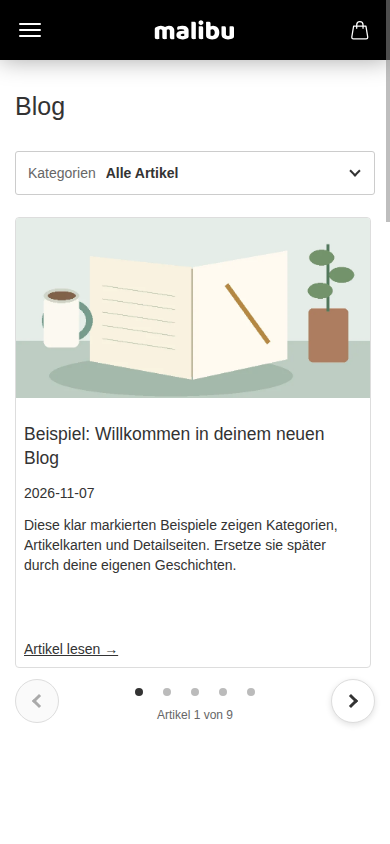
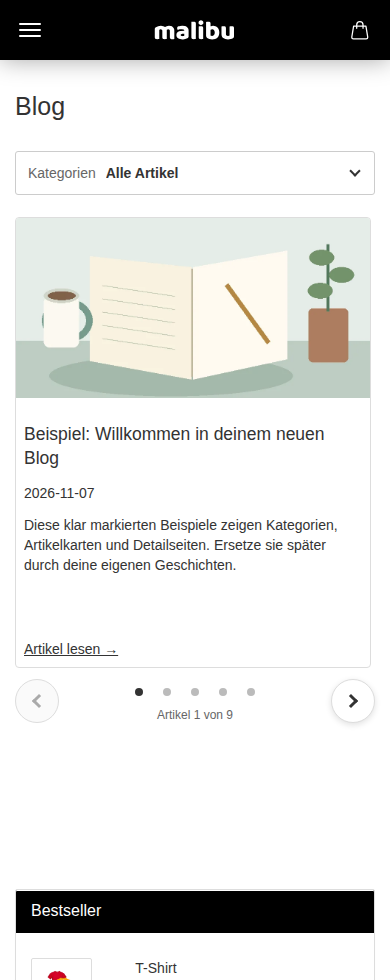
Dokumentation: Blogmodul mit zehn Ansichten vorstellen

diff --git a/docs/BILDERRUNDGANG.md b/docs/BILDERRUNDGANG.md
@@ -1,0 +1,102 @@
+# c1zz Blog in Bildern
+
+Zehn echte Ansichten zeigen den Weg vom Einstieg über das Schreiben und Gestalten bis zum öffentlichen Blog. Klicke auf ein Bild, um die Bedienelemente in Originalgröße zu lesen.
+
+**Aufgenommen am 09.11.2026:** Modul 0.40.2 im lokalen Gambio 26.11.0 mit Malibu und optionalen Beispielinhalten. Die Detailaufnahmen von Schreibeditor, Freigabe und Darstellung zeigen gezielte Ausschnitte. Das Erscheinungsbild hängt vom Shoptheme und den Einstellungen ab. Die Bilder ergänzen den [dokumentierten Teststand](KOMPATIBILITAET.md).
+
+[Zur Projektübersicht](../README.md) · [Zur Installation](INSTALLATION.md)
+
+| Ansicht | Das siehst du |
+|---|---|
+| [1. Einstieg](#ansicht-1) | Geführter Einstieg mit vier Schritten und Verwaltung der Beispielartikel |
+| [2. Artikelverwaltung](#ansicht-2) | Artikelübersicht mit Suche, Kategorien, Veröffentlichungsstatus und Aktionen |
+| [3. Artikeldaten und SEO](#ansicht-3) | Artikelformular mit Titel, Kategorie, Kurzbeschreibung und Suchmaschinenfeldern |
+| [4. Inhalte schreiben](#ansicht-4) | Nativer Schreibeditor mit Beispieltext, Formatierungsleiste und Entwurfsaktionen |
+| [5. Kategorien verwalten](#ansicht-5) | Kategorieformular mit SEO-Feldern und Liste bestehender Kategorien |
+| [6. Freigabe, Termine und Versionen](#ansicht-6) | Freigabe eines privaten Entwurfs, Terminplanung, Aufgabenhinweis und gespeicherte Version |
+| [7. Darstellung mit Vorschau](#ansicht-7) | Grafischer Editor mit Grid-Vorschau und Layoutoptionen für Desktop |
+| [8. Öffentlicher Blog auf Desktop](#ansicht-8) | Öffentliche Blogliste im vollständigen Malibu-Shoplayout |
+| [9. Öffentliche Artikelseite](#ansicht-9) | Öffentlicher Ratgeber mit Titelbild, gegliedertem Text und Shopumgebung |
+| [10. Öffentlicher Blog auf Mobilgeräten](#ansicht-10) | Mobile Blogansicht mit Kategorieauswahl und Artikelslider |
+
+<a id="ansicht-1"></a>
+
+## 1. Einstieg
+
+Nach der Installation führt **Einstieg** durch Beispielblog, Gestaltung, eigene Inhalte und Livegang. In diesem Testshop wurden die optionalen Beispiele bereits angelegt. Eine Neuinstallation startet leer.
+
+[![Geführter Einstieg mit vier Schritten und Verwaltung der Beispielartikel](images/einstieg.png)](images/einstieg.png)
+
+<a id="ansicht-2"></a>
+
+## 2. Artikelverwaltung
+
+Die Übersicht verbindet Suche, Kategoriefilter und Status mit den Aktionen **Bearbeiten** und **Freigabe & Termine**. Zu sehen sind neun veröffentlichte Beispiele und ein privater Entwurf.
+
+[![Artikelübersicht mit Suche, Kategorien, Veröffentlichungsstatus und Aktionen](images/artikelverwaltung.png)](images/artikelverwaltung.png)
+
+<a id="ansicht-3"></a>
+
+## 3. Artikeldaten und SEO
+
+Im oberen Teil des Artikelformulars pflegst du Titel, Datum, Kategorie, Kurzbeschreibung, Schlagwörter und URL-Kürzel. SEO-Titel und Meta-Description stehen im selben Formular. Speichern aktualisiert den Entwurf; die Veröffentlichung ist ein eigener Schritt.
+
+[![Artikelformular mit Titel, Kategorie, Kurzbeschreibung und Suchmaschinenfeldern](images/artikel-angaben.png)](images/artikel-angaben.png)
+
+<a id="ansicht-4"></a>
+
+## 4. Inhalte schreiben
+
+Dieser Ausschnitt zeigt den Inhaltsbereich weiter unten im selben Formular: nativer Gambio-Editor mit Formatierung und HTML-Ansicht sowie die Aktionen für Entwurf, Vorschau und Veröffentlichung. Der Beispieltext enthält Zwischenüberschriften, eine Liste und ein Zitat.
+
+[![Nativer Schreibeditor mit Beispieltext, Formatierungsleiste und Entwurfsaktionen](images/editor.png)](images/editor.png)
+
+<a id="ansicht-5"></a>
+
+## 5. Kategorien verwalten
+
+Eigene Kategorien lassen sich unabhängig von Artikeln anlegen. Name, URL-Kürzel und Suchmaschinenangaben gehören zur Kategorie. Unter dem Formular stehen die bereits vorhandenen Beispielkategorien.
+
+[![Kategorieformular mit SEO-Feldern und Liste bestehender Kategorien](images/kategorien.png)](images/kategorien.png)
+
+<a id="ansicht-6"></a>
+
+## 6. Freigabe, Termine und Versionen
+
+Der Ausschnitt zeigt die Freigabe eines gespeicherten Entwurfs, die Terminplanung und die vorhandene Version. Beide Freigaben verlangen eine ausdrückliche Bestätigung. Der gelbe Hinweis ist im lokalen Testshop sichtbar, weil kein regelmäßiger Aufgabenaufruf bestätigt ist; geplante Veröffentlichungen benötigen diesen Aufruf. Für die Aufnahme wurde nichts veröffentlicht oder eingeplant.
+
+[![Freigabe eines privaten Entwurfs, Terminplanung, Aufgabenhinweis und gespeicherte Version](images/freigabe-termine.png)](images/freigabe-termine.png)
+
+<a id="ansicht-7"></a>
+
+## 7. Darstellung mit Vorschau
+
+Im grafischen Editor wählst du Geräteansicht und Bereich, zum Beispiel Layout, Karte, Bild oder Text. Hier zeigt der Ausschnitt eine **ungespeicherte Grid-Vorschau** mit zwei Spalten und den passenden Layoutoptionen. Die gespeicherten Einstellungen wurden für die Aufnahme nicht verändert.
+
+[![Grafischer Editor mit Grid-Vorschau und Layoutoptionen für Desktop](images/darstellung.png)](images/darstellung.png)
+
+<a id="ansicht-8"></a>
+
+## 8. Öffentlicher Blog auf Desktop
+
+Die gespeicherte Desktopansicht verwendet eine Liste. Shopkopf und Seitenleiste zeigen die Einbindung in Malibu; innerhalb des Blogs führen Kategorien und Seitennavigation durch die Artikel. Die Aufnahme erfolgt als Gast.
+
+[![Öffentliche Blogliste im vollständigen Malibu-Shoplayout](images/blog-desktop.png)](images/blog-desktop.png)
+
+<a id="ansicht-9"></a>
+
+## 9. Öffentliche Artikelseite
+
+Der Ratgeber zeigt Titel, Kategorie, Datum, Kurzbeschreibung und Titelbild sowie den formatierten Artikeltext. Shopkopf und Seitenleiste bleiben Bestandteil der Shopdarstellung.
+
+[![Öffentlicher Ratgeber mit Titelbild, gegliedertem Text und Shopumgebung](images/artikel.png)](images/artikel.png)
+
+<a id="ansicht-10"></a>
+
+## 10. Öffentlicher Blog auf Mobilgeräten
+
+Bei 390 Pixeln Breite verwendet dieser Beispielshop einen Slider mit Pfeilen, Punkten und Artikelzähler. Die Kategorien sind über eine kompakte Auswahl erreichbar. Desktop und Mobil können unterschiedliche Darstellungen verwenden.
+
+<a href="images/blog-mobil.png"><img src="images/blog-mobil.png" alt="Mobile Blogansicht mit Kategorieauswahl und Artikelslider" width="390"></a>
+
+[Zur Projektübersicht](../README.md) · [Installation](INSTALLATION.md)

diff --git a/README.md b/README.md
@@ -6,11 +6,13 @@
 
 Artikel schreiben, Kategorien pflegen und die Darstellung direkt im Shop gestalten: **c1zz Blog** ist ein eigenständig installierbares Blogmodul für Gambio. Du brauchst keinen vorbereiteten Blog und keine SSH-Nacharbeiten.
 
-**[Installer herunterladen](https://github.com/c1zz/gambio-blog/releases/download/v0.40.2-rc.1/c1zz-blog-install-0.40.2.php)** · **[Release & Prüfsummen](https://github.com/c1zz/gambio-blog/releases/tag/v0.40.2-rc.1)** · **[Installation](docs/INSTALLATION.md)** · **[Echtheit prüfen](SECURITY.md)**
+**[Bilderrundgang mit 10 Ansichten](docs/BILDERRUNDGANG.md)** · **[Installer herunterladen](https://github.com/c1zz/gambio-blog/releases/download/v0.40.2-rc.1/c1zz-blog-install-0.40.2.php)** · **[Release & Prüfsummen](https://github.com/c1zz/gambio-blog/releases/tag/v0.40.2-rc.1)** · **[Installation](docs/INSTALLATION.md)** · **[Echtheit prüfen](SECURITY.md)**
 
 > Dies ist ein **Release Candidate**. Bitte zuerst in einem Testshop prüfen und vor dem Einsatz den Shop sichern. Der interne Modulstand und der Dateiname lauten `0.40.2`; `rc.1` kennzeichnet diese Veröffentlichung.
 
-![Blog mit Beispielartikeln im lokalen Testshop](docs/images/blog-desktop.png)
+**So sehen Besucher den Blog:** Die Desktopansicht zeigt Artikel, Kategorien und Seitennavigation im Malibu-Shoplayout – einschließlich Shopkopf und Seitenleiste.
+
+[![Öffentliche Blogübersicht mit Shopkopf, Seitenleiste und Beispielartikeln](docs/images/blog-desktop.png)](docs/images/blog-desktop.png)
 
 ## Was du damit machen kannst
 
@@ -23,6 +25,18 @@ Artikel schreiben, Kategorien pflegen und die Darstellung direkt im Shop gestalt
 | Übersicht und einzelne Artikelseiten | Konfigurierbare Shop-Seitenleiste | Daten behalten oder ausdrücklich löschen |
 
 Du kannst Blogkarten auch über **`[c1zz_blog]`** in unterstützte CMS-Inhalte und Produktbeschreibungen einbinden. Der Bereich **Einbinden** erzeugt den passenden Shortcode mit eigenen Widgetoptionen.
+
+## So arbeitest du mit dem Blog
+
+**Artikel im Überblick:** Suche und Kategoriefilter helfen beim Finden. Die Statusspalte unterscheidet veröffentlichte Artikel und private Entwürfe; Bearbeitung, Freigabe und Termine sind direkt erreichbar.
+
+[![Artikelverwaltung mit zehn Beispielartikeln, Kategorien, Status und Aktionen](docs/images/artikelverwaltung.png)](docs/images/artikelverwaltung.png)
+
+**Inhalte schreiben:** Der native Gambio-Editor bietet Formatierung, Bilder und HTML-Ansicht. Darunter liegen **Entwurf speichern**, **Vorschau** und der Zugang zu **Veröffentlichung, Terminen und Versionen**. Der Ausschnitt zeigt den Inhaltsbereich; Titel, Kategorie und SEO stehen weiter oben im Formular.
+
+[![Inhaltsbereich des nativen Gambio-Editors mit Formatierung und Entwurfsaktionen](docs/images/editor.png)](docs/images/editor.png)
+
+**[Zum vollständigen Bilderrundgang →](docs/BILDERRUNDGANG.md)** Dort siehst du auch Einstieg, Kategorien, Artikeldaten und SEO, Freigabe und Termine, die öffentliche Artikelseite und die mobile Ansicht. Alle Bilder lassen sich in Originalgröße öffnen.
 
 ## In wenigen Schritten loslegen
 
@@ -40,11 +54,11 @@ Die vollständigen Schritte, Voraussetzungen und Hinweise zu Updates stehen in d
 
 Die grafische Darstellung und **Alle Einstellungen** bearbeiten dieselben Werte. Du kannst etwa auf Desktop ein Grid und auf Mobil einen Slider verwenden, Bildplatzierung und Textabstände einstellen oder Farben und Schriftgrößen je Gerät anpassen.
 
-![Grafischer Darstellungseditor im lokalen Gambio-Testshop](docs/images/darstellung.png)
+**Vorschau und Einstellungen nebeneinander:** Hier ist im grafischen Editor eine **ungespeicherte Grid-Vorschau** geöffnet. Gerätewahl, Spaltenzahl und Artikelzahl sind direkt neben der Vorschau sichtbar. Die öffentliche Desktopaufnahme weiter oben zeigt die gespeicherte Listenansicht.
 
-<p align="center"><img src="docs/images/blog-mobil.png" alt="Mobile Blogansicht mit Beispielinhalten" width="340"></p>
+[![Grafischer Darstellungseditor mit Grid-Vorschau, Gerätewahl und Layoutoptionen](docs/images/darstellung.png)](docs/images/darstellung.png)
 
-Die Screenshots zeigen echte lokale Testansichten mit Beispielinhalten. Das Aussehen hängt von deinem Theme und deinen Einstellungen ab.
+Die Screenshots stammen aus dem lokalen GX26-Testshop mit Malibu und den optionalen Beispielinhalten (Modul 0.40.2, Aufnahme vom 09.11.2026). Der [Bilderrundgang](docs/BILDERRUNDGANG.md) zeigt auch den **mobilen Slider**. Das Aussehen hängt von deinem Theme und deinen Einstellungen ab.
 
 ## Was ist tatsächlich geprüft?
 
